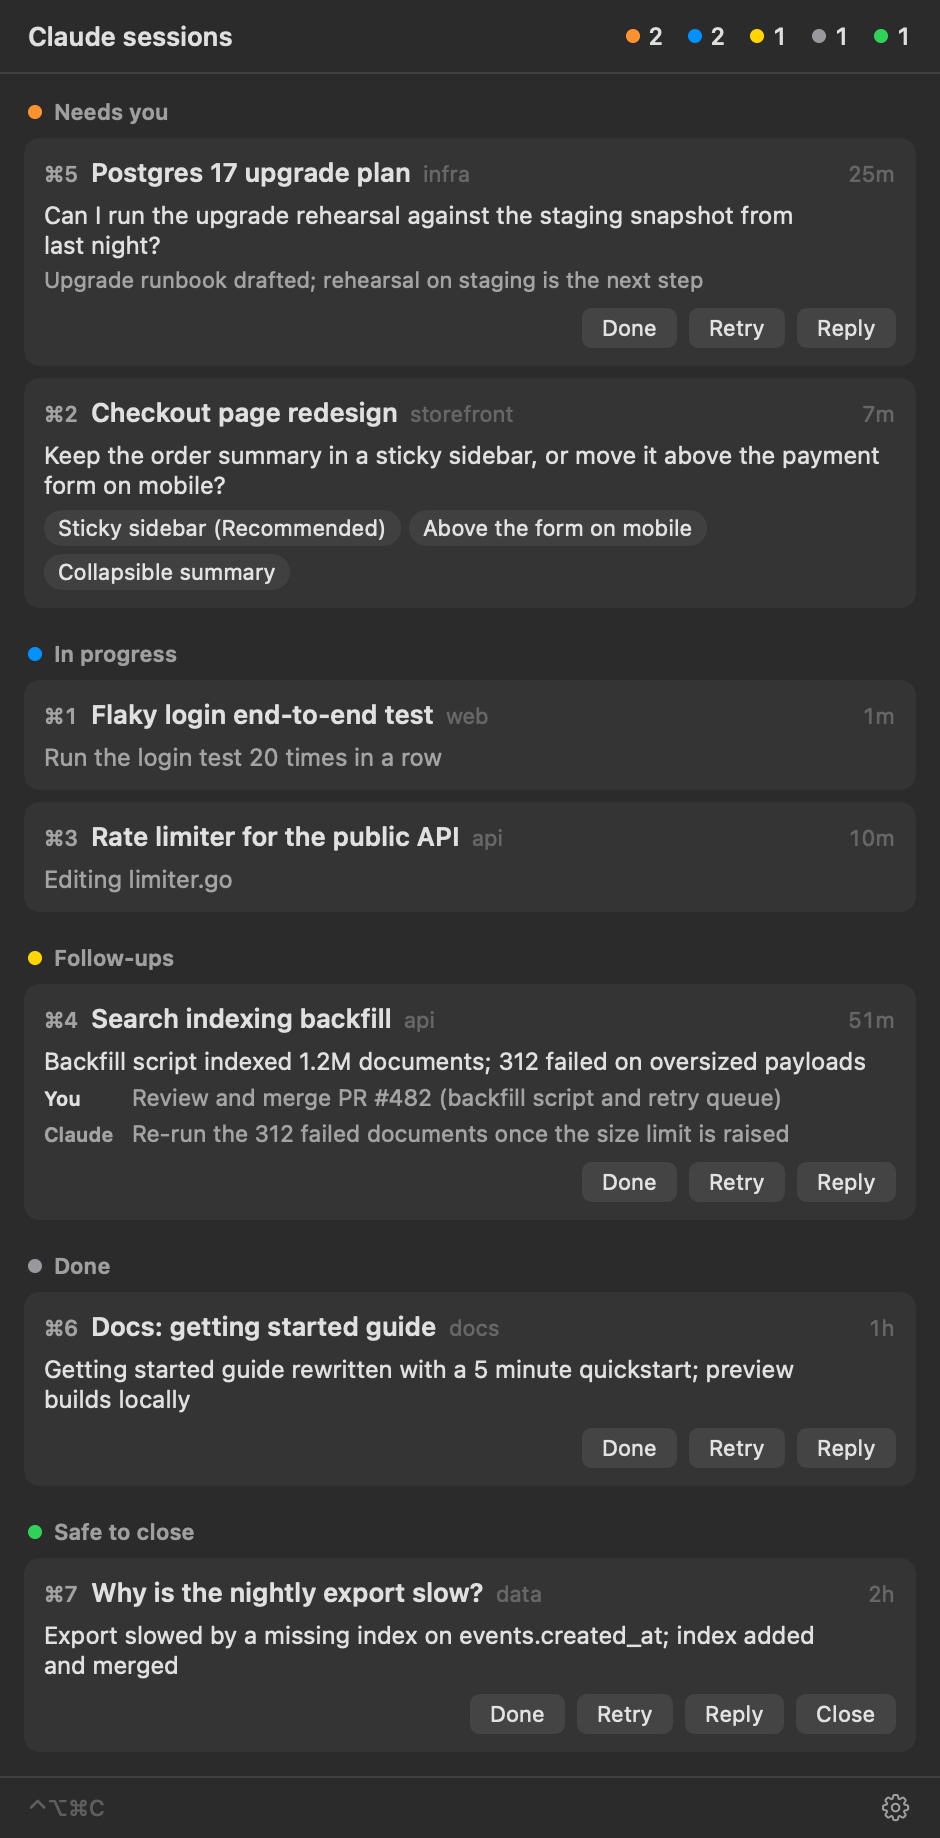
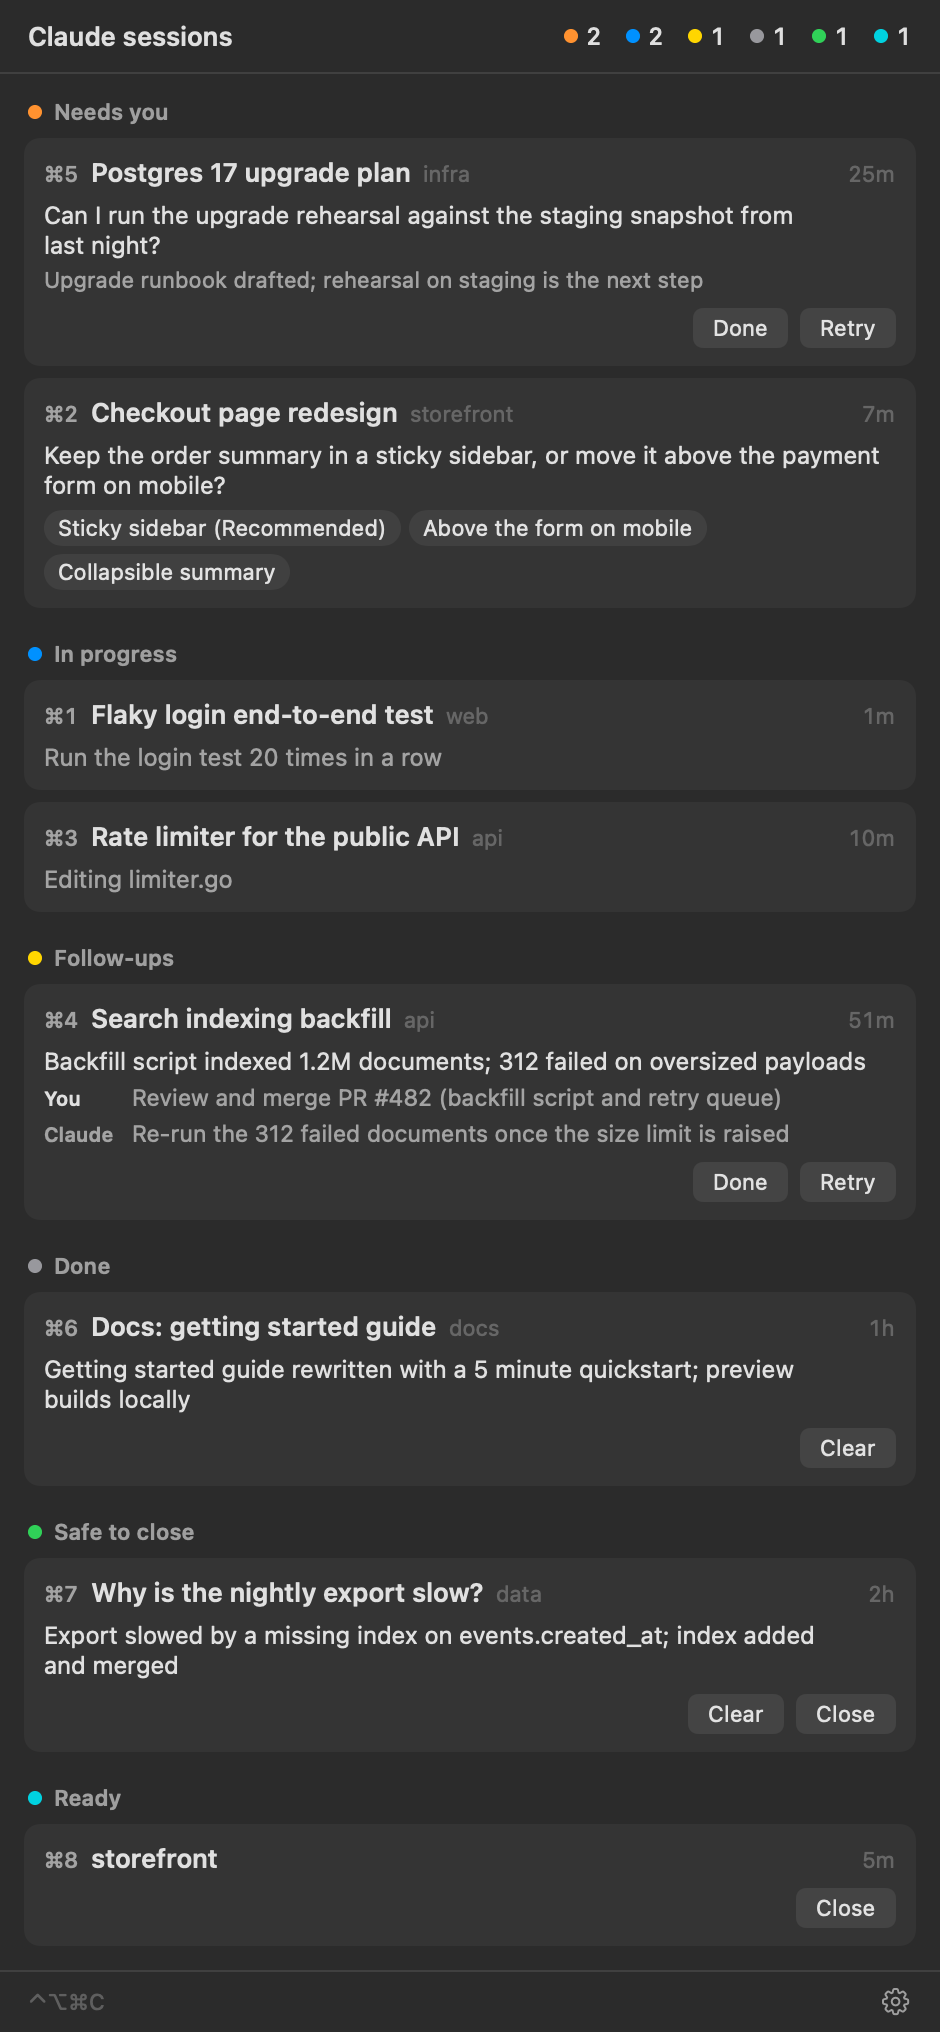
Clear button and Ready group; no Reply box
- Clear (on Done and Safe to close) runs /clear in the session's tab,
  typed key by key: a pasted "/clear" opens the command menu and Enter
  completes it twice, sending "/clear/clear" as a message.
- Sessions with nothing asked yet, or just cleared, land in a new Ready
  group (Close only).
- The Reply box is gone: clicking the card opens the tab. Each group gets
  its own buttons: Done and Retry for Needs you and Follow-ups, Clear for
  Done, Clear and Close for Safe to close, Close for Ready.

Claude-Session: https://claude.ai/code/session_01RDhaBoTTNcAvszeH8XE4NA

diff --git a/app/Sources/Views.swift b/app/Sources/Views.swift
@@ -135,11 +135,8 @@ struct SessionCard: View {
     let session: Session
     let group: SessionGroup
 
-    @State private var replying = false
-    @State private var draft = ""
     @State private var confirmingClose = false
     @State private var hovering = false
-    @FocusState private var fieldFocused: Bool
 
     var body: some View {
         VStack(alignment: .leading, spacing: 7) {
@@ -154,8 +151,7 @@ struct SessionCard: View {
             }
             .buttonStyle(.plain)
             .help(session.lastPrompt.map { "Last prompt: \($0)" } ?? "Open the tab")
-            if replying { replyField }
-            if session.canReply || session.canClose { actions }
+            if session.canReply || session.canClear || session.canClose { actions }
         }
         .padding(.horizontal, 10)
         .padding(.vertical, 9)
@@ -214,6 +210,8 @@ struct SessionCard: View {
                     .foregroundStyle(.secondary)
                     .lineLimit(1)
             }
+        case .ready:
+            EmptyView()
         case .followups, .done, .close:
             VStack(alignment: .leading, spacing: 4) {
                 if let headline = session.headline {
@@ -255,20 +253,6 @@ struct SessionCard: View {
         }
     }
 
-    private var replyField: some View {
-        HStack(spacing: 6) {
-            TextField("Message", text: $draft)
-                .textFieldStyle(.roundedBorder)
-                .font(.system(size: 12))
-                .focused($fieldFocused)
-                .onSubmit(send)
-            Button("Send", action: send)
-                .controlSize(.small)
-                .disabled(draft.trimmingCharacters(in: .whitespaces).isEmpty)
-        }
-        .onAppear { fieldFocused = true }
-    }
-
     private var actions: some View {
         HStack(spacing: 6) {
             Spacer()
@@ -278,10 +262,10 @@ struct SessionCard: View {
                     .help("Send \"done\" to the session")
                 Button("Retry") { store.reply(session, "retry") }
                     .help("Send \"retry\" to the session")
-                Button(replying ? "Cancel" : "Reply") {
-                    replying.toggle()
-                    if !replying { draft = "" }
-                }
+            }
+            if session.canClear {
+                Button("Clear") { store.clear(session) }
+                    .help("Start a fresh conversation in this tab (/clear)")
             }
             if session.canClose {
                 Button(confirmingClose ? "Confirm close" : "Close") {
@@ -301,14 +285,6 @@ struct SessionCard: View {
         }
         .controlSize(.small)
         .buttonStyle(.bordered)
-    }
-
-    private func send() {
-        let text = draft.trimmingCharacters(in: .whitespacesAndNewlines)
-        guard !text.isEmpty else { return }
-        store.reply(session, text)
-        draft = ""
-        replying = false
     }
 }
 

diff --git a/app/Sources/Model.swift b/app/Sources/Model.swift
@@ -33,6 +33,7 @@ struct Session: Decodable, Identifiable {
     let headline: String?
     let followups: [Followup]
     let canReply: Bool
+    let canClear: Bool
     let canClose: Bool
 
     var id: String { sid }
@@ -55,6 +56,7 @@ enum SessionGroup: String, CaseIterable, Identifiable {
     case followups
     case done
     case close
+    case ready
 
     var id: String { rawValue }
 
@@ -65,6 +67,7 @@ enum SessionGroup: String, CaseIterable, Identifiable {
         case .followups: "Follow-ups"
         case .done: "Done"
         case .close: "Safe to close"
+        case .ready: "Ready"
         }
     }
 
@@ -75,6 +78,7 @@ enum SessionGroup: String, CaseIterable, Identifiable {
         case .followups: Color(nsColor: .systemYellow)
         case .done: .gray
         case .close: .green
+        case .ready: .teal
         }
     }
 }

diff --git a/app/Sources/Store.swift b/app/Sources/Store.swift
@@ -82,6 +82,7 @@ final class Store: ObservableObject {
 
     func focus(_ s: Session) { perform(["focus", String(s.pid)], done: nil) }
     func reply(_ s: Session, _ text: String) { perform(["reply", String(s.pid)], input: text, done: "Sent to \(s.name)") }
+    func clear(_ s: Session) { perform(["clear", String(s.pid)], done: "Cleared \(s.name)") }
     func close(_ s: Session) { perform(["close", String(s.pid)], done: "Closed \(s.name)") }
 
     private func perform(_ args: [String], input: String? = nil, done: String?) {

diff --git a/cockpit/cockpit.py b/cockpit/cockpit.py
@@ -5,6 +5,7 @@ Commands used by the menu bar app:
   serve                   print a JSON snapshot (one per line) whenever something changes
   focus PID               bring the session's terminal tab to the front
   reply PID               type stdin into an idle session and press Enter
+  clear PID               type /clear into an idle session: same tab, fresh conversation
   close PID               end an idle session (SIGTERM to that PID) and close its tab
   hooks-status            print installed, missing or outdated
 
@@ -23,6 +24,7 @@ Every open session lands in one group:
   followups   the judge found the work finished, with concrete items left
   done        the judge found the work finished, worth a look before closing
   close       the judge found nothing left: closing the session loses nothing
+  ready       nothing asked yet (or just cleared): free for the next task
 
 The judge is a short Haiku call through your own `claude` CLI, run once per finished
 turn. Only the Python standard library is used.
@@ -63,7 +65,7 @@ DEFAULT_CONFIG = {
 HOOK_EVENTS = ("Stop", "StopFailure", "Notification")
 HOOK_PATTERN = re.compile(r"cockpit\.py['\"]?\s+hook\b")
 
-GROUPS = ("needs_you", "working", "followups", "done", "close")
+GROUPS = ("needs_you", "working", "followups", "done", "close", "ready")
 VERDICTS = ("needs_you", "followups", "done", "close")
 SUBAGENT_TOOLS = {"Agent", "Task"}
 INTERRUPT_MARKERS = ("[Request interrupted by user", "[Request cancelled")
@@ -669,6 +671,32 @@ on run argv
 end run
 """
 
+    # Keys one by one, as if typed: a pasted "/clear" opens the command menu and Enter
+    # then completes it a second time ("/clear/clear" sent as a message).
+    KEYS = """
+on run argv
+  tell application id "com.mitchellh.ghostty"
+    repeat with w in windows
+      repeat with t in tabs of w
+        repeat with term in terminals of t
+          if id of term is item 1 of argv then
+            repeat with k in (items 2 thru -1 of argv)
+              send key (k as text) to term
+            end repeat
+            delay 0.5
+            send key "enter" to term
+            return "ok"
+          end if
+        end repeat
+      end repeat
+    end repeat
+  end tell
+  return "missing"
+end run
+"""
+
+    KEY_NAMES = {"/": "slash", " ": "space", "-": "minus"}
+
     CLOSE = """
 on run argv
   tell application id "com.mitchellh.ghostty"
@@ -710,6 +738,12 @@ end run
 
     def type(self, t, text):
         if osascript(self.TYPE, t["term_id"], text) != "ok":
+            raise RuntimeError("Tab not found")
+
+    def command(self, t, command):
+        """Run a slash command such as /clear by typing it."""
+        keys = [self.KEY_NAMES.get(c, c) for c in command]
+        if osascript(self.KEYS, t["term_id"], *keys) != "ok":
             raise RuntimeError("Tab not found")
 
     def close(self, t):
@@ -785,6 +819,14 @@ def reply(pid, text):
         raise RuntimeError("The session is busy")
     t = terminal_for_pid(pid)
     t["adapter"].type(t, text)
+
+
+def clear(pid):
+    """Start a fresh conversation in the same tab (Claude Code's /clear)."""
+    if session_for_pid(pid).get("status") != "idle":
+        raise RuntimeError("The session is busy")
+    t = terminal_for_pid(pid)
+    t["adapter"].command(t, "/clear")
 
 
 def close(pid):
@@ -943,7 +985,7 @@ class Snapshotter:
         elif status != "idle":
             row.update(activity=facts["activity"] or "Thinking", since=facts["turn_start"] or row["since"])
         elif not facts["turn_key"]:
-            row.update(group="done", headline="Nothing asked yet")
+            row.update(group="ready")  # nothing asked yet, or just cleared
         elif state.get("turn_key") == facts["turn_key"]:
             verdict = state.get("verdict") or "done"
             row.update(group=verdict, headline=state.get("headline"), followups=state.get("followups") or [], ask=state.get("ask") or None)
@@ -958,8 +1000,11 @@ class Snapshotter:
                 spawn_judge(sid, path, row["name"], cwd, facts["turn_key"])
 
         idle = status == "idle"
-        row["can_reply"] = idle and bool(term) and row["group"] != "working" and row["kind"] not in ("picker", "plan", "permission")
-        row["can_close"] = idle and row["group"] == "close"
+        row["can_reply"] = (
+            idle and bool(term) and row["group"] in ("needs_you", "followups") and row["kind"] not in ("picker", "plan", "permission")
+        )
+        row["can_clear"] = idle and bool(term) and row["group"] in ("done", "close")
+        row["can_close"] = idle and row["group"] in ("close", "ready")
         return row
 
     def snapshot(self):
@@ -1015,11 +1060,14 @@ def demo_snapshot():
             "headline": None,
             "followups": [],
             "can_reply": False,
+            "can_clear": False,
             "can_close": False,
         }
         r.update(extra)
-        r["can_reply"] = r["status"] == "idle" and r["kind"] not in ("picker", "plan", "permission")
-        r["can_close"] = group == "close"
+        idle = r["status"] == "idle"
+        r["can_reply"] = idle and group in ("needs_you", "followups") and r["kind"] not in ("picker", "plan", "permission")
+        r["can_clear"] = idle and group in ("done", "close")
+        r["can_close"] = idle and group in ("close", "ready")
         return r
 
     rows = [
@@ -1078,6 +1126,7 @@ def demo_snapshot():
             7,
             headline="Export slowed by a missing index on events.created_at; index added and merged",
         ),
+        row("storefront", "storefront", "ready", 300, 8),
     ]
     return {"at": now, "sessions": rows}
 
@@ -1186,7 +1235,7 @@ def main(argv=None):
         sub.add_parser(name)
     sub.add_parser("snapshot").add_argument("--no-judge", action="store_true")
     sub.add_parser("judge").add_argument("session_id")
-    for name in ("focus", "reply", "close"):
+    for name in ("focus", "reply", "clear", "close"):
         sub.add_parser(name).add_argument("pid", type=int)
     internal = sub.add_parser("_judge")
     internal.add_argument("args", nargs=5)
@@ -1212,6 +1261,8 @@ def main(argv=None):
             focus(args.pid)
         elif args.cmd == "reply":
             reply(args.pid, sys.stdin.read())
+        elif args.cmd == "clear":
+            clear(args.pid)
         elif args.cmd == "close":
             close(args.pid)
         elif args.cmd == "hooks-status":

diff --git a/tests/test_cockpit.py b/tests/test_cockpit.py
@@ -147,6 +147,24 @@ class Groups(Sandbox):
         self.assertEqual(len(self.spawned), 1)
         self.assertEqual(self.spawned[0][-1], "a1")
 
+    def test_empty_session_is_ready(self):
+        self.write_transcript()
+        self.open_session()
+        row = self.row()
+        self.assertEqual(row["group"], "ready")
+        self.assertTrue(row["can_close"])
+        self.assertFalse(row["can_reply"])
+        self.assertEqual(self.spawned, [])
+
+    def test_done_can_be_cleared(self):
+        self.write_transcript(user("explain the cache"), assistant("a1", text("The cache keys on user id.")))
+        self.open_session()
+        cockpit.save_state(SID, {"turn_key": "a1", "verdict": "done", "headline": "Cache explained"})
+        with mock.patch.object(cockpit, "map_terminals", lambda pids: {os.getpid(): {"tab": 1}}):
+            row = self.row()
+        self.assertTrue(row["can_clear"])
+        self.assertFalse(row["can_close"])
+
     def test_fresh_verdict_sets_the_group(self):
         self.write_transcript(user("explain the cache"), assistant("a1", text("The cache keys on user id.")))
         self.open_session()

diff --git a/README.md b/README.md
@@ -20,6 +20,7 @@ Running several Claude Code sessions in terminal tabs, it is easy to lose track:
 | **Follow-ups** | The asked work is finished, but concrete items remain, each tagged with who owns it: **You** (merge, deploy, test, decide) or **Claude** (next steps it said it would do). |
 | **Done** | Finished. Worth a look before you close it. |
 | **Safe to close** | Nothing left to review, try, merge or follow up. Closing the session loses nothing. |
+| **Ready** | Nothing asked yet, or just cleared: free for the next task. |
 
 Each card shows the session name, its tab (`⌘3`), the folder and how long ago it changed. The menu bar icon shows how many sessions need you.
 
@@ -28,9 +29,9 @@ Open the panel from the icon, or with **⌃⌥⌘C** from anywhere. On a MacBook
 **Actions** (Ghostty only, see [Terminals](#terminals)):
 
 - Click a card to jump to its tab.
-- **Done** and **Retry** send that word to an idle session in one click, to get it going again after you did your part or after a failure.
-- **Reply** types a message into an idle session and presses Enter.
-- **Close** (on sessions that are safe to close) ends Claude in that tab and closes the tab, after a second click to confirm.
+- **Done** and **Retry** (on Needs you and Follow-ups) send that word to the session in one click, to get it going again after you did your part or after a failure.
+- **Clear** (on Done and Safe to close) runs `/clear` in that tab: same tab, fresh conversation, and the card moves to **Ready**.
+- **Close** (on Safe to close and Ready) ends Claude in that tab and closes the tab, after a second click to confirm.
 
 ## How it works
 
@@ -59,7 +60,7 @@ make install
 
 `make install` builds the app into `~/Applications/Claude Cockpit.app`, adds its hook to `~/.claude/settings.json` (your other settings and hooks are kept, and a backup is written next to the file), and opens it.
 
-The first time you click a card, macOS asks whether Claude Cockpit may control Ghostty. Allow it, or jump, reply and close will not work. You can change it later in System Settings > Privacy & Security > Automation.
+The first time you click a card, macOS asks whether Claude Cockpit may control Ghostty. Allow it, or the card buttons will not work. You can change it later in System Settings > Privacy & Security > Automation.
 
 Sessions started before the install pick up the hook on their next turn. Turn on **Open at login** from the gear menu.
 
@@ -87,7 +88,7 @@ The judge sends the recent part of a finished session (your last prompts, Claude
 
 ## Terminals
 
-Ghostty is the only terminal with actions today. In any other terminal, or an editor's built-in terminal, sessions still appear with their group, headline and follow-ups, but clicking a card only reports that no tab was found and Reply is hidden. Close still ends the Claude process and leaves the tab open.
+Ghostty is the only terminal with actions today. In any other terminal, or an editor's built-in terminal, sessions still appear with their group, headline and follow-ups, but clicking a card only reports that no tab was found, and Done, Retry and Clear are hidden. Close still ends the Claude process and leaves the tab open.
 
 Support for another terminal is one small class in `cockpit.py` (list terminals with their PID or tty, focus one, type into one, close one). Pull requests are welcome.
 
